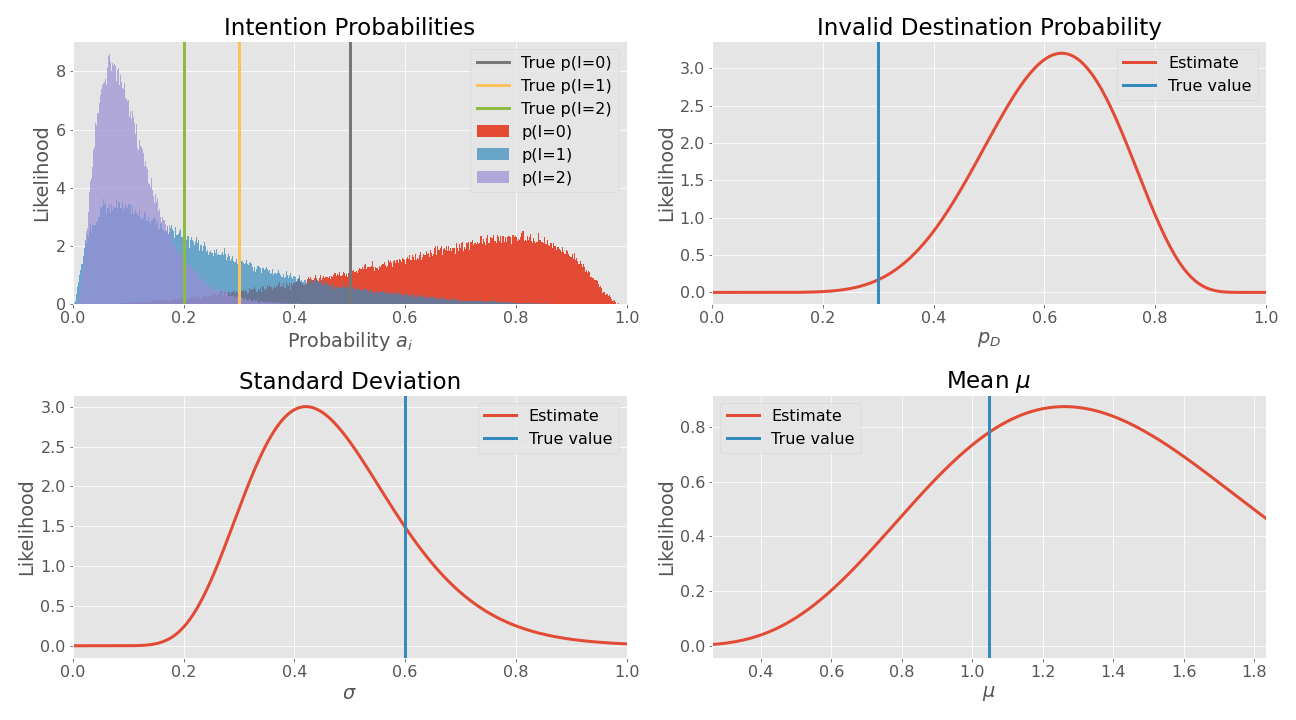
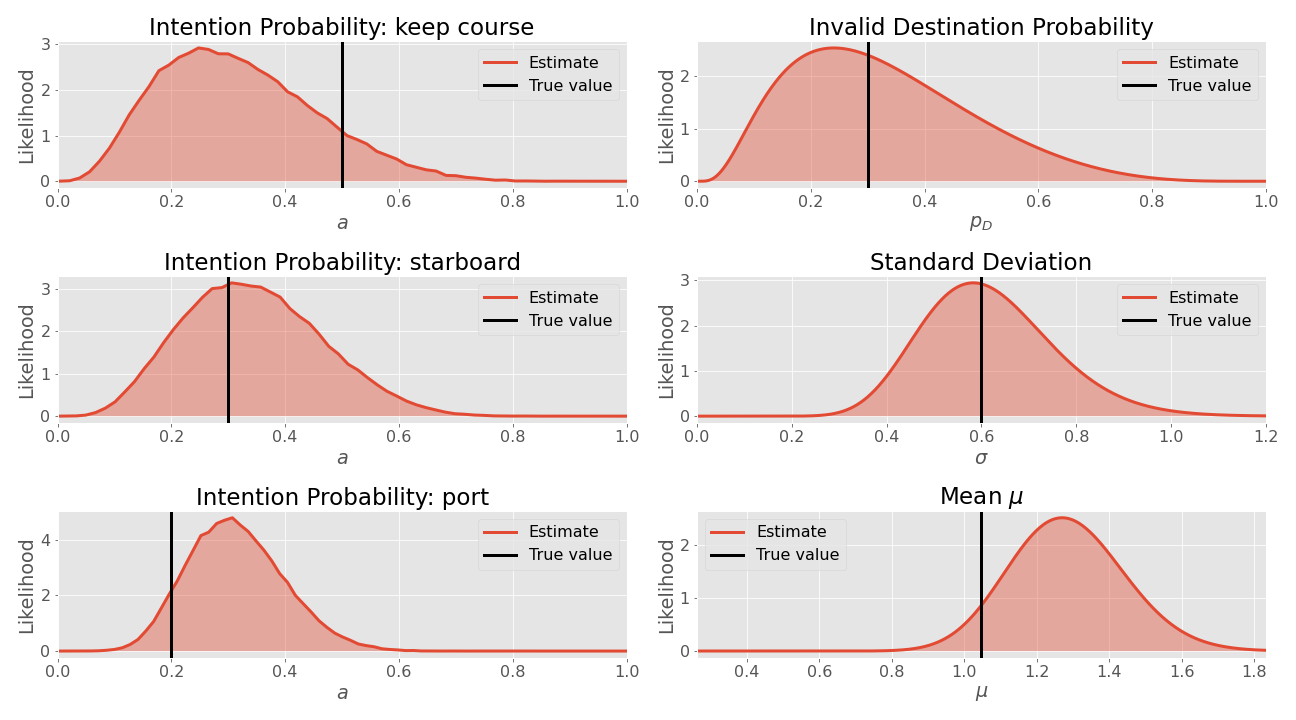
Update plots

diff --git a/chapters/4-implementation-and-result.tex b/chapters/4-implementation-and-result.tex
@@ -5,11 +5,13 @@ This chapter focuses on comparing the performance between \acrshort{mcmc} and \a
 \section{The model}
 As the context of this paper is intention inference for autonomous ferries, it seems fit that a similar example is used. A simple intention model is therefore proposed as an example, which relates steering angle to an intention through a mixture model. 
 
-The angle $\theta_t$ is defined to be the angle between the obstacles current course and the predicted course given the obstacles final destination. The vessels are required to report their final destination, but in some cases there may be user-errors where invalid destinations are transmitted to nearby vessels. If the obstacles report the final destination is correctly, $D_t=0$, the angle should be closely related to the obstacles intention and can be generated from a Gaussian selected by the intention $I_t$ (i.e. a mixture of Gaussian's weighted by the intention probabilities). If the obstacle report an incorrect destination, $D=1$, the angle $\theta_t$ is independent of intention as the obstacle may he headed in a completely different direction.
+The angle $\theta$ is defined to be the angle between the obstacle's current course and a simple predicted course given the obstacle's final destination. The vessels are required to report their final destination, but in some cases there may be user-errors where invalid destinations are transmitted to nearby vessels. If the obstacle's reported final destination is correct, $D=0$, the angle should be closely related to the obstacle's intention and can be generated from a Gaussian selected by the intention $I$ (i.e. a mixture of Gaussian's weighted by the intention probabilities). If the obstacle report an incorrect destination, $D=1$, the angle $\theta$ is independent of intention as the obstacle may he headed in a completely different direction.
 
-This example model is intentionally not identifiable when observing only the angles $\theta_t$. This example will show how the choice of priors affect the learning process, especially when parameters are not identifiable. Through the use of informative priors the model should still be able to learn what it can from available data.   
+This example model is intentionally not identifiable when observing only the angles $\boldsymbol{\theta}$. This example will show how the choice of priors affect the learning process, especially when parameters are not identifiable. Through the use of informative priors the model should still be able to learn what it can from available data.   
 
-Whether or not the final destination is valid is modelled using a Bernoulli variable $D_t$ which takes the value $1$ if the destinations is \textbf{invalid}. A Beta distribution is used to model the prior probability $p_D$ of $D=1$, i.e. the destination being invalid.  
+Whether or not the final destination is valid is modelled using a Bernoulli variable $D_t$ which takes the value $1$ if the destinations is \textbf{invalid}. A Beta distribution is used to model the prior probability $p_D = \Pr \{D=1\}$, i.e. the probability of the destination being invalid.  
+
+A few modelling assumptions are made:
 
 \begin{description}
     \item[Assumption 1] The angles $\{\theta_1, \theta_2, \dots, \theta_t\}$ are independent
@@ -46,7 +48,13 @@ $I_t=2$ & The obstacle intends a port-side turn            \\ \hline
 \end{table}
 
 
-The mixture components for $\theta_t$ when $D_t=0$ are Gaussian Distributions. For $I=0$, the mean is zero with unknown variance. For $I \in \{1, 2\}$ the means are assumed to have equal absolute value, but opposite sign. The value for $\mu = \mu_2 = -\mu_1$ is unknown and distributed according to a Gaussian variable. The standard deviation is assumed equal for all intentions and is distributed according to an inverse Gamma distribution. In other words, the mixture components are assumed to have the same variance and they should be symmetrical around $\theta_t=0$.
+The mixture components for $\theta_t$ when $D_t=0$ are Gaussian Distributions. For $I=0$, the mean is zero with unknown variance. For $I \in \{1, 2\}$ the means are assumed to have equal absolute value, but opposite sign. The value for $\mu = \mu_2 = -\mu_1$ is unknown and distributed according to a Softplus (\cref{eq:softplus}) transformed Gaussian variable. Using \cref{eq:change_of_variable} for change of variable, the distribution of $\mu$ becomes 
+
+\begin{equation}
+    \mu = f(x), \quad x \sim \mathcal{N}(x) \implies p(\mu) = \mathcal{N}(f^{-1}(\mu)) \frac{1}{|f'(f^{-1}(\mu))|} 
+\end{equation}
+
+The standard deviation is assumed equal for all intentions and is distributed according to an inverse Gamma distribution. In other words, the mixture components are assumed to have the same variance and they should be symmetrical around $\theta_t=0$.
 Learning the mean $\mu$ from data allows the model to adapt to different types of ships. A small fishing vessel might rapidly change course (i.e. large $\theta_t$), while a large oil-tanker has limited ability to turn due to its size (i.e. smaller $\theta_t$). 
 \begin{align}
     \mu_0 &= 0 &  \mu_{2} = - \mu_{1} = \mu &\sim \text{Gaussian} & \sigma &\sim \text{Inv-Gamma}
@@ -67,11 +75,11 @@ The marginal distribution of $\theta_t$ when $D_t=0$ becomes the Gaussian mixtur
 \end{split}
 \end{align}
 
-One issue with using a Guassian distribution for angle information is that it has support on $\mathcal{R}$, while the angles $\theta$ should ideally only have support on $(-\pi, \pi)$. In practice, this may not be a big issue as long as the probability mass is mostly kept within $(-\pi, \pi)$. Another solution could be to use a nonlinear transformation to clamp $\mathcal{R}$ to $(-\pi, \pi)$. There is however a possible issue with the mean $\mu$ as it is implicitly assumed to be positive, even if the the Gaussian distribution offer support on $\mathcal{R}$. As the angle distribution is assumed symmetrical around $theta=0$, it is possible to swap the portside and starboard turn intentions by swapping the sign of $\mu$. This will likely cause the posterior distribution to become bimodal, as the data is unable to distinguish between the two intentions.  
+One issue with using a Guassian distribution for angle information is that it has support on $\mathcal{R}$, while the angles $\theta$ should ideally only have support on $(-\pi, \pi)$. In practice, this may not be a big issue as long as the probability mass is mostly kept within $(-\pi, \pi)$. Another solution could be to use a nonlinear transformation to clamp $\mathcal{R}$ to $(-\pi, \pi)$. There is however a possible issue with the mean $\mu$ as it is implicitly assumed to be positive, even if the the Gaussian distribution offer support on $\mathcal{R}$. As the angle distribution is assumed symmetrical around $\theta=0$, it is possible to swap the portside and starboard turn intentions by swapping the sign of $\mu$. This will likely cause the posterior distribution to become bimodal, as the data is unable to distinguish between the two intentions.  
 
 \cref{fig:intention_angle} shows the likelihood for different angles for the different intentions with fixed mean and variance. 
 
-When the obstacles target destination is invalid, $D=1$, the angle $\theta$ is distributed according to a Uniform distribution over the range $(-\pi, \pi)$ to model how the angle contains no information about the obstacle in such a case. 
+When the obstacle's target destination is invalid, $D=1$, the angle $\theta$ is distributed according to a Uniform distribution over the range $(-\pi, \pi)$ to model how the angle contains no information about the obstacle in such a case. 
 
 \begin{equation}\label{eq:angle_uniform}
     p(\theta_t | D=1) = \text{Uniform}(-\pi, \pi)
@@ -88,16 +96,12 @@ The distribution for $\theta_t$ becomes a mixture between the Gaussian Mixture i
 \end{split}
 \end{align}
 
-For multiple data points $\boldsymbol{\theta}$, the
-
-
 The data generating process for $\theta_t$ is shown in \cref{fig:example_pgm} then becomes:
 
 \begin{enumerate}
-    \item Draw priors $p_D$, $\boldsymbol{\alpha}$ 
-    \item Draw priors $\mu$ and $\sigma$
+    \item Draw priors $p_D$, $\boldsymbol{\alpha}$, $\mu$ and $\sigma$
     \item For all $t \in \{1, \dots, N \}$, draw $D_t$ and $I_t$ conditional on $p_D$ and $\boldsymbol{\alpha}$
-    \item For all $t \in \{1, \dots, N\} $, if $D_t=1$, draw $\theta_t$ from Uniform distribution. If not, draw $\theta_t$ from $\mathcal{N}(\theta_t | \mu_i, \sigma)$ conditional on $\mu_i$ and $\sigma$. 
+    \item For all $t \in \{1, \dots, N\} $, if $D_t=1$, draw $\theta_t$ from Uniform distribution. If not, draw $\theta_t$ from $\mathcal{N}(\theta_t | \mu_i, \sigma)$ conditional on $I=i$, $\mu_i$ and $\sigma$. 
 \end{enumerate}
 
 \begin{figure}[h]
@@ -181,7 +185,7 @@ Both \acrshort{mcmc} and \acrshort{vi} were implemented using Tensorflow Probabi
 
 
 \section{Dataset \& Benchmark}
-The dataset was generated from $N=1000$ samples $\boldsymbol{\mathcal{D}}$ from \cref{eq:angle_complete_mixture} with fixed parameters. A successful inference should be able to regain the parameters $\boldsymbol{\alpha}$, $p_D$, $\mu_2 = -\mu_1$ and $\sigma$ from $\mathcal{D}$.
+The dataset was generated from $N=1000$ samples $\mathcal{D}$ from \cref{eq:angle_complete_mixture} with fixed parameters. A successful inference should be able to regain the parameters $\boldsymbol{\alpha}$, $p_D$, $\mu$ and $\sigma$ from $\mathcal{D}$.
 
 \section{Markov Chain Monte Carlo}
 Hamiltonian Monte Carlo was implemented using Tensorflow Probability (TFP). The log posterior target density was then defined using \cref{eq:example_unnormalized_posterior} as 
@@ -201,24 +205,24 @@ The proposal distribution were transformed using the following transformations (
 \item Softplus \eqref{eq:softplus} to acheive unimodal sampling of $\mu > 0$
 \end{itemize}
 
-$20$ individual chains were randomly initialized by sampling from the prior. $30000$ samples were then drawn from each chain, were the first $10000$ samples are discarded due to burn-in. These values were selected by trial and error, and by inspecting the individual chains in order to confirm convergence.  
+$20$ individual chains were randomly initialized by sampling from the prior. $10000$ samples were then drawn from each chain, were the first $5000$ samples are discarded due to burn-in. These values were selected by trial and error, and by inspecting the individual chains in order to confirm convergence.  
 
 \section{Variational Inference}
 
 \acrshort{vi} was implemented using an independent, transformed Gaussian distribution as surrogate density for each variable. Specifying this model was easily achieved by passing the following list of Bijectors to \texttt{tfp.experimental.vi.build\_factored\_surrogate\_posterior}.
 \begin{itemize}
-\item Softmax \eqref{eq:softmax} to transform $\mathcal{R}$ to $\{\boldsymbol{\alpha} \in (0, 1)^3\ | \sum x_i = 1\}$
+\item Softmax \eqref{eq:softmax} to transform $\mathcal{R}^3$ to $\{\boldsymbol{\alpha} \in (0, 1)^3\ | \sum x_i = 1\}$
 \item Sigmoid \eqref{eq:sigmoid} to transform $\mathcal{R}$ to $p_D \in (0, 1)$
 \item Softplus \eqref{eq:softplus} to transform $\mathcal{R}$ to $\sigma > 0$
 \item Softplus \eqref{eq:softplus} to achieve unimodal distribution of $\mu \in \mathcal{R}$
 \end{itemize}
 
-The last Softplus Bijector is especially important for \acrshort{vi} and deserves further explanation. As the intention probabilities for $I=1$ and $I=2$ are symmetrical around $\theta=0$ and the Gaussian distribution offer support on the entire real line $\mathcal{R}$, the resulting marginal distribution for $\mu$ becomes bimodal. As the model is not identifiable from $\boldsymbol{\theta}$ alone, the data supports both modes. The prior do prioritize the positive values, but still offers support for negative values as well.  Using \acrshort{vi} with reverse \acrshort{kl} may therefore result in fitting the wrong mode, unless $\mu > 0$ is explicitly enforced by using a Softplus transformation to remove support for negative values. 
+The last Softplus Bijector is especially important for \acrshort{vi} and deserves further explanation. As the intention probabilities for $I=1$ and $I=2$ are symmetrical around $\theta=0$ and the Gaussian distribution offer support on the entire real line $\mathcal{R}$, the resulting marginal distribution for $\mu$ becomes bimodal. As the model is not identifiable from $\boldsymbol{\theta}$ alone, the data supports both modes. The prior do prioritize the positive values, but still offers support for negative values as well.  Using \acrshort{vi} with reverse \acrshort{kl} may therefore result in fitting the wrong mode, as discussed in \cref{sec:im-mode}, unless $\mu > 0$ is explicitly enforced by using a Softplus transformation to remove support for negative values. 
 
 The Stochastic Gradient Descent (SGD) optimizer \texttt{tf.optimizers.Adam} was then used to optimize the reverse KL divergence by passing it to \texttt{tfp.vi.fit\_surrogate\_posterior} along with the same log posterior density used for \acrshort{mcmc}, expressed in \cref{eq:example_ll} \cite{tensorflow2015-whitepaper}. 
 
 \section{Results}
-A dataset of $N=1000$ samples were used to observe how well \acrshort{vi} and \acrshort{mcmc} are able to learn from data. The true parameters used to generate the datasets are summarized in \cref{tbl:example_params}. The parameters were selected such that the priors are reasonable, while also making sure that the true parameters are different from the prior max and mean (to verify that the values are actually learned from data). 
+A dataset of $N=1000$ samples were used to observe how well \acrshort{vi} and \acrshort{mcmc} are able to learn from data. The true parameters used to generate the datasets are summarized in \cref{tbl:example_params}. The parameters were selected such that the priors are reasonable, while also making sure that the true parameters are different from the prior max and mean to verify that the values are actually learned from data. 
 \begin{table}[h]
 \centering
 \begin{tabular}{lllll}
@@ -232,13 +236,13 @@ A dataset of $N=1000$ samples were used to observe how well \acrshort{vi} and \a
 
 The posterior distribution when using \acrshort{mcmc} is shown in \cref{fig:example_mcmc_posterior} and shows how it is able to infer the intention probabilities $\boldsymbol{\alpha}$ from data, with the MAP estimates being pretty much spot-on. The uncertainty for the different intentions are however rather high, as multiple combinations of parameter values are able to explain the data rather well. The probability of invalid destination $p_D$ is also successfully reconstructed from observations, with rather low uncertainty. However, it it unable to distinguish between the mean $\mu$ and the standard deviation $\sigma$, resulting in high uncertainty and incorrect MAP estimates. The sampling took over 8 minutes in total for this dataset. 
 
-\cref{fig:example_vi_posterior} show the performance of \acrshort{vi} on the same dataset. The marginal intention probability distribution for $p(\boldsymbol{\alpha} | \mathcal{D})$ are surrounding the true values, but the MAP estimates are off with around $10\%$ and $5\%$ for $p(I=0)$ and $p(I=1)$ respectively. \acrshort{vi} also severely underestimate the true uncertainty. For the invalid destination probability, the results are however much better with very similar results as \acrshort{mcmc}. For the mean $\mu$ and standard deviation $\sigma$, the results are comparable to \acrshort{mcmc}, though with less uncertainty. However, considering the optimization only used 22 seconds on the same computer, these results are quite impressive when compared to \acrshort{mcmc}.
+\cref{fig:example_vi_posterior} show the performance of  \acrshort{vi} on the same dataset. The intention MAP values are close to the true parameters, though \acrshort{vi} severely underestimate the true uncertainty. For the invalid destination probability, the results are however much better with very similar results as \acrshort{mcmc}. For the mean $\mu$ and standard deviation $\sigma$, the results are comparable to \acrshort{mcmc}, though with less uncertainty. However, considering the optimization only used 22 seconds on the same computer, these results are quite impressive when compared to \acrshort{mcmc}.
 
 Another dataset with only $N=50$ samples was generated to see how the methods behave will low amounts of data. \cref{fig:example_mcmc_vi_low_N} show how \acrshort{vi} is a bit overconfident on the intention probabilities and underestimate the uncertainty when compared to \acrshort{mcmc}. The results are otherwise very similar as shown in \cref{fig:example_mcmc_low_N} and \cref{fig:example_vi_low_N} for \acrshort{mcmc} and \acrshort{vi} respectively. Both methods are able to express the high uncertainty due to the limited amount of data available. 
 
 Other datasets created with different parameters were also tested, though the plots are not included. Other datasets showed very similar results, only varying a bit on which variables the methods were able to correctly estimate. Random variations when generating the dataset also affected the final results, where some realizations of the data performed well and other performed poorly even if the parameters remained constant. 
 
-The number of burn-in samples were somewhat arbitrarily chosen. However, by inspecting the individual chains in \cref{fig:example_mcmc_trace}, the individual chains appear to have reached the same stationary distribution and $10000$ burn-in samples are assumed to be enough for this specific problem.
+The number of burn-in samples were somewhat arbitrarily chosen. However, by inspecting the individual chains in \cref{fig:example_mcmc_trace}, the individual chains appear to have reached the same stationary distribution and $5000$ burn-in samples are assumed to be enough for this specific problem.
 
 \begin{figure}[h]
     \centering

diff --git a/chapters/3b-analytical.tex b/chapters/3b-analytical.tex
@@ -25,13 +25,7 @@ where $\psi_{st}(x_s, x_t)$ is the edge potential. The edge potential $\psi_{st}
 
 The messages and belief state for each node can then be recursively computed using \cref{eq:bp_belief} and \cref{eq:bp_message}.
 
-\begin{subequations}
-\begin{align}
-p(x_r) &= \idotsint_V p(x_r, x_1,\dots,x_k) \,dx_1 \dots dx_k\\
-&= \idotsint_V p(x_r | x_1)p(x_1|x_2)\dots p(x_{k-1} | x_k)p(x_k) \, dx_1 \dots dx_k\\
-&= \int_{x_1} p(x_r | x_1)\underbrace{\int_{x_2}p(x1 | x2) \; \;  \dots \underbrace{\int_{x_k} p(x_{k-1} | x_k)p(x_k) \, dx_1 \dots dx_k}_{m_{k\to k-1}^-(x_{k-1})}}_{m_{x_2 \to x_1}^-(x_1)}
-\end{align}
-\end{subequations}
+
 
 Computing all messages from leaf nodes towards the top is called the \textit{collecting evidence}-phase and yields the marginal distribution for the root node. However, the marginal distribution for all other nodes can easily be calculated by calculating messages from the root node and distribute messages downward towards the leaf nodes. This is called the \textit{distribute evidence}-phase. 
 
@@ -54,8 +48,16 @@ The top-down messages $m_{t \to s}^+$ can be computed by combining all the evid
 
 While \acrshort{bp} may sound complicated, one can think of this algorithm as computing the marginal distribution of $x_r$ where each sum or integral is pushed in as far as possible to simplify calculations. By beginning with the inner-most integral, the marginalization boils down to recursively computing simple integrals or sums with only a small subset of the variables. This general method is called \textit{variable elimination}\cite{murphy}. \acrshort{bp} extends this idea by also utilizing the graph structure to reduce the computational complexity. A \acrshort{pgm} with a chain structure is used as an example to show the rather simple concept behind variable elimination and \acrshort{bp}.
 
+\begin{subequations}
+\begin{align}
+p(x_r) &= \idotsint_V p(x_r, x_1,\dots,x_k) \,dx_1 \dots dx_k\\
+&= \idotsint_V p(x_r | x_1)p(x_1|x_2)\dots p(x_{k-1} | x_k)p(x_k) \, dx_1 \dots dx_k\\
+&= \int_{x_1} p(x_r | x_1)\underbrace{\int_{x_2}p(x1 | x2) \; \;  \dots \underbrace{\int_{x_k} p(x_{k-1} | x_k)p(x_k) \, dx_1 \dots dx_k}_{m_{k\to k-1}^-(x_{k-1})}}_{m_{x_2 \to x_1}^-(x_1)}
+\end{align}
+\end{subequations}
+
 \subsection{Belief Propagation on arbitrary graphs}
-\acrshort{bp} can even for \acrshort{mrf}'s without tree structure, but then it becomes an approximate inference algorithm as convergence to the true state is no longer guaranteed. It is then called \textit{loopy belief propagation}, and works by running \acrshort{bp} until convergence, i.e. until the changes in belief state do not change significantly.  In practice, the method is effecient and simple, and often outperforms other approximate methods \cite{murphy}.
+\acrshort{bp} can also be used for \acrshort{pgm}'s without tree structure, but then it becomes an approximate inference algorithm as convergence to the true state is no longer guaranteed. It is then called \textit{loopy belief propagation}, and works by running \acrshort{bp} until convergence, i.e. until the changes in belief state do not change significantly.  In practice, the method is effecient and simple, and often outperforms other approximate methods \cite{murphy}.
 
 \subsection{Limitations of analytical methods}
 The methods described so far in this chapter generally applies to both discrete and continuous random variables by replacing integrals with sums for discrete variables. However, in practice, continuous random variables quickly becomes intractable unless each parent-child in the graph are conjugate priors. Assuming conjugate priors severely limits the ability to describe the data-generating process, leaving only a few types of networks feasible. Looking back at \cref{table:conjugate_priors} for common conjugate priors, only a mix of gaussians, gamma and discrete distributions allow for multiple levels in a hierarchical model. For all other distributions, one quickly ends up in a situation where no standard conjugate exist \cite{winnbishop}. 
@@ -63,7 +65,7 @@ The methods described so far in this chapter generally applies to both discrete 
 \section{Variational Bayes}
 \acrshort{bp} allows for exact inference of \acrshort{pgm}'s when there exists closed-form solutions of the integrals. This is however rarely the case and is only true for carefully chosen distributions. Requiring all combination of nodes to be conjugate priors (\cref{sec:theory_conjugate_priors}) can severely limit the expressibility of a \acrshort{pgm} and is not a viable solution. 
 
-Another approach is to approximate the target distribution $p^*(\mathbf{x} | \mathbf{v})$ with a \textit{surrogate distribution} $q(\mathbf{x})$ constructed using conjugate priors to allow for exact inference. If $p^*(\cdot)$ and $q(\cdot)$ are similar, then \acrshort{bp} can be used on $q(\cdot)$ to do approximate inference.
+Another approach is to approximate the target distribution $p^*(\mathbf{x} | \mathcal{D})$ with a simpler \textit{surrogate distribution} $q(\mathbf{x})$. If the surrogate density is selected to be close to the true posterior $p^*(\mathbf{x} | \mathcal{D})$, it can be used for approximate inference. 
 
 \subsection{Kullback-Liebler divergence}
 The \textit{\acrfull{kl}}  is used as a measure of difference between two probability distributions \cite{kullback1951,murphy}.
@@ -78,11 +80,11 @@ In this case $p^*(\cdot)$ is only assumed known up to a normalizing constant, ma
 \end{equation}
 
 \subsubsection{ELBO}
-In the case of variational inference, the goal is usually to find an approximation $q(\mathbf{z})$ for the posterior $p(\mathbf{z} | \mathbf{x}$.) The reverse \acrshort{kl} can then be written as.
+In the case of variational inference, the goal is usually to find an approximation $q(\mathbf{x})$ for the posterior $p(\mathbf{x} | \mathcal{D})$. The reverse \acrshort{kl} can then be written as.
 \begin{subequations}
 \begin{align}
     \mathbb{KL}(q(\mathbf{x}) || p^*(\mathbf{x} | \mathcal{D})) &= E_q\big[\log \frac{q(\mathbf{x})}{p^*(\mathbf{x} | \mathcal{D})} \big]\label{eq:elbo_kl}\\
-    &= E_q\big[\log \frac{q(\mathbf{z}) p^*(\mathbf{x})}{p^*(\mathbf{z}, \mathbf{x})} \big]\\
+    &= E_q\big[\log \frac{q(\mathbf{x}) p^*(\mathcal{D})}{p^*(\mathbf{x}, \mathcal{D})} \big]\\
     &= E_q\big[\log q(\mathbf{x}) \big] - E_q\big[\log p^*(\mathbf{x}, \mathcal{D})] + E_q\big[\log p^*(\mathcal{D}) \big]\\
     &= E_q\big[\log q(\mathbf{x}) \big] - E_q\big[\log p^*(\mathbf{x}, \mathcal{D})] + \log p^*(\mathcal{D})\\
     &\leq E_q\big[\log q(\mathbf{x}) \big] - E_q\big[\log p(\mathbf{x}, \mathcal{D})]\label{eq:negative_elbo}
@@ -96,7 +98,7 @@ This problem is usually phrased as a maximization problem, and the objective fun
     \text{ELBO}(q) = E_q\big[\log p(\mathbf{x}, \mathcal{D})] - E_q\big[\log q(\mathbf{x}) \big]
 \end{equation}
 
-Variational Inference then boils down to finding the best surrogate posterior $q^*(\mathbf{x})$ which maximize \acrshort{elbo}, or equivalently minimize \acrshort{kl} \cite{Blei_2017}.
+Variational Inference then boils down to finding the best surrogate density $q^*(\mathbf{x})$ which maximize \acrshort{elbo}, or equivalently minimize \acrshort{kl} \cite{Blei_2017}.
 
 \begin{equation}
     q^*(\mathbf{x}) = \arg \max_{q(\mathbf{x})} \text{ELBO}(q) = \arg \min_{q(\mathbf{x})} \mathbb{KL}(q(\mathbf{x}) || p^*(\mathbf{x} | \mathcal{D}))
@@ -104,18 +106,18 @@ Variational Inference then boils down to finding the best surrogate posterior $q
 
 
 
-\subsection{I or M mode projection}
+\subsection{I or M mode projection}\label{sec:im-mode}
 
 Forward KL is also known as \textit{moment-projection} (M-projection)  as it will attempt to match the moments of $q(\cdot)$ with $p^*(\cdot)$. In the case of a multimodal $p^*(\cdot)$ and unimodal $q(\cdot)$, this may not be desirable as the mean is placed in between regions of high probability. Looking at \cref{eq:kl}, the KL divergence is infinite when $p(\cdot) > 0$ and $q(\cdot) = 0$. M-projection is therefore said to be \textit{zero avoiding} as optimizing \cref{eq:kl} needs to ensure $q(\mathbf{x}) > 0$ when $p(\mathbf{x}) > 0$. M-projection therefore tends to over-estimate the support of $p^*(\cdot)$.
 
-Reverse KL is known as \textit{information-projection} (I-projection). As \cref{eq:reverse_kl} is infinite when $p^*(\cdot) = 0$ and $q(\cdot) > 0$, optimizing reverse KL therefore needs to ensure $q(\cdot) = 0$ when $p^*(\cdot)=0$. I-projection is therefore said to be \textit{zero forcing} and tends to underestimate the support for $p^*(\cdot)$ \cite{murphy}. 
+Reverse KL is known as \textit{information-projection} (I-projection). I-projection tends to converge toward a local mode, which may or may not be desired. In the case of multimodal distributions, reverse \acrshort{kl} can therefore converge toward a local mode, even if there exist modes with higher probability mass. As \cref{eq:reverse_kl} is infinite when $p^*(\cdot) = 0$ and $q(\cdot) > 0$, optimizing reverse KL therefore needs to ensure $q(\cdot) = 0$ when $p^*(\cdot)=0$. I-projection is therefore said to be \textit{zero forcing} and tends to underestimate the support for $p^*(\cdot)$ \cite{murphy}. 
 
 \subsection{Mean Field}
 The simplest method for variational inference is assuming independent variables for the surrogate distribution $q(\cdot)$. 
 \begin{equation}\label{eq:mean_field}
     q(\mathbf{x}) = \prod_i q_i(x_i)
 \end{equation}
-However, this is in many cases a very strong assumption which may lead to poor results in the case of strong interactions in the posterior distribution. An extension called \textit{structured mean field} can in some cases be used if the posterior has a tractable substructures (i.e. sub graphs which can be described using "simple" distributions). The variables forming tractable substructures can then be combined into "mega-variables" and \cref{eq:mean_field} can be used as an approximation \cite{murphy}.
+However, this is in many cases a very strong assumption which may lead to poor results in the case of strong interactions in the posterior distribution. An extension called \textit{structured mean field} can in some cases be used if the posterior has tractable substructures (i.e. sub graphs which can be described using "simple" distributions). The variables forming tractable substructures can then be combined into "mega-variables" and \cref{eq:mean_field} can be used as an approximation \cite{murphy}.
 
 \subsection{Variational Message Passing}
 \subsection{Variational EM}

diff --git a/chapters/5-discussion.tex b/chapters/5-discussion.tex
@@ -1,6 +1,6 @@
 \chapter{Discussion \& Conclusion}\label{chap:discussion}
 
-All of the methods described in this thesis so far have their strong advantages and disadvantages. 
+All of the methods described in this thesis have their strong advantages and disadvantages. 
 
 \section{When all variables are discrete}
 In the case of \acrshort{pgm}'s with only discrete variables, exact inference methods are often applicable. The challenges of Bayesian inference in such networks usually boils down to computational complexity when the number of variables increases and in which order the computations should be made. Exact methods such as \acrshort{bp} are in most cases the most appropriate choice, though some structures (in the case of loops) cannot guarantee an optimal solution. 
@@ -10,7 +10,7 @@ When some variables are continuous, the problem usually gets a bit more complica
 
 The most straight-forward approach will be to use \acrshort{mcmc} methods, due to their inherent simplicity. These methods allow sampling from arbitrarily complex models as long as the target probability can be evaluated. It can in most cases provide asymptotic guarantees that the samples is from the true posterior distribution, though only given a very large amount of samples. How many samples that are considered "enough" is difficult to say, and it usually require manual interpretations of the results in order to verify convergence. Using \acrshort{mcmc} in autonomous systems may therefore be challenging unless the model is sufficiently simple, in which case other methods may still be preferable. Due to the random nature of sampling methods, \acrshort{mcmc} is likely a poor choice for problems where deterministic behaviour is valued. 
 
-In the examples above, \acrshort{mcmc} used more than $8$ minutes sampling, compared to less $25$ seconds for \acrshort{vi} on the same model. Optimizations can most likely be made to significantly speed up both \acrshort{mcmc} and \acrshort{vi}, though the \acrshort{mcmc} will be limited to the large number of required samples needed for accurate results. 
+In the examples above, \acrshort{mcmc} used more than $8$ minutes sampling, compared to less than $25$ seconds for \acrshort{vi} on the same model. Optimizations can most likely be made to significantly speed up both \acrshort{mcmc} and \acrshort{vi}, though \acrshort{mcmc} will always be limited to the large number of required samples needed for accurate results. 
 
 
 

diff --git a/chapters/2-theory.tex b/chapters/2-theory.tex
@@ -281,10 +281,10 @@ For a probability distribution $p: X \to (0, 1)$, it can be rewritten as \cref{e
 \end{equation}
 
 \subsection{Transformations}
-Given a (possibly nonlinear) transformation $\mathbf{y} = f(\mathbf{x})$, the probability distribution $p(\mathbf{y})$ can be expressed in terms of the $p(\mathbf{x})$ through a change of variables. The formula for a change of variables is expressed in \cref{eq:change_of_variable} where $\boldsymbol{J}$ is the Jacobian of $f(\mathbf{x})$.
+Given a (possibly nonlinear) transformation $\mathbf{y} = f(\mathbf{x})$, the probability distribution $p(\mathbf{y})$ can be expressed in terms of the $p(\mathbf{x})$ through a change of variables. The formula for a change of variables is expressed in \cref{eq:change_of_variable} where $\boldsymbol{J}(\mathbf{y})$ is the Jacobian of $f^{-1}(\mathbf{y})$.
 
 \begin{equation}\label{eq:change_of_variable}
-    p(\mathbf{y}) = p(\mathbf{x}) | \det (\mathbf{J}) | = p_{\mathbf{x}}(f^{-1}(\mathbf{y})) | \det (\mathbf{J}) |  
+    p(\mathbf{y}) = p(\mathbf{x}) | \det (\mathbf{J}) | = p_{\mathbf{x}}(f^{-1}(\mathbf{y})) | \det (\mathbf{J}(\mathbf{y})) |  
 \end{equation}
 
 \subsection{Conjugate Priors}\label{sec:theory_conjugate_priors}
